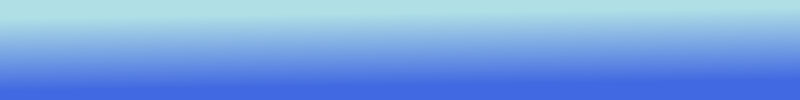
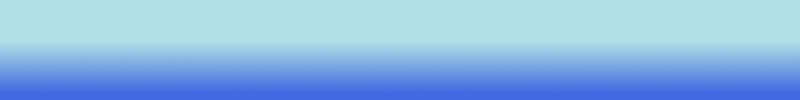
changed all colors to shades of blue

diff --git a/index.html b/index.html
@@ -3,14 +3,14 @@
     <head>
         <style>
     		#pageBox {
-    			background-color: bisque;
+    			background-color: PowderBlue;
     			margin: 50px 10% 50px 10%;
     			padding: 20px 15px 0px 0px;
     			border-radius: 25px;
     		}
     		
     		#mainPageDiv {
-    			background: linear-gradient( to bottom right, salmon, bisque );
+    			background: linear-gradient( to bottom right, RoyalBlue, PowderBlue );
     			width: 100%;
     			height: 100%;
     			padding: 20px;
@@ -19,26 +19,26 @@
     		}
     		
     		#mainPageMenuDiv {
-    			background-color: salmon;
-    			border-color: bisque;
+    			background-color: RoyalBlue;
+    			border-color: PowderBlue;
     			border-style: solid;
     			padding: 15px;
     		}
     		
     		#mainPageSearchDiv {
-    			background-color: bisque;
+    			background-color: PowderBlue;
 				border-radius: 25px;
 				border-width: medium;
-				border-color: salmon;
+				border-color: RoyalBlue;
 				border-style: solid;
 				padding: 15px;
     		}
     		
     		#mainPageContentDiv {
-				background-color: bisque;
+				background-color: PowderBlue;
 				border-radius: 25px;
 				border-width: medium;
-				border-color: salmon;
+				border-color: RoyalBlue;
 				border-style: solid;
 				padding: 15px;
 			}
@@ -84,7 +84,7 @@
 					</div>
 				</div>
 			</form>
-			<img src = "gradientBorder.png" />
+			<img src = "blueBorder.png" />
         </div>
         
         <div id="pageBox">
@@ -108,7 +108,7 @@
 					</div>
 				</div>
 			</form>
-			<img src = "gradientBorder.png" />
+			<img src = "blueBorder.png" />
         </div>
         
         <div id= "mainPageDiv">
